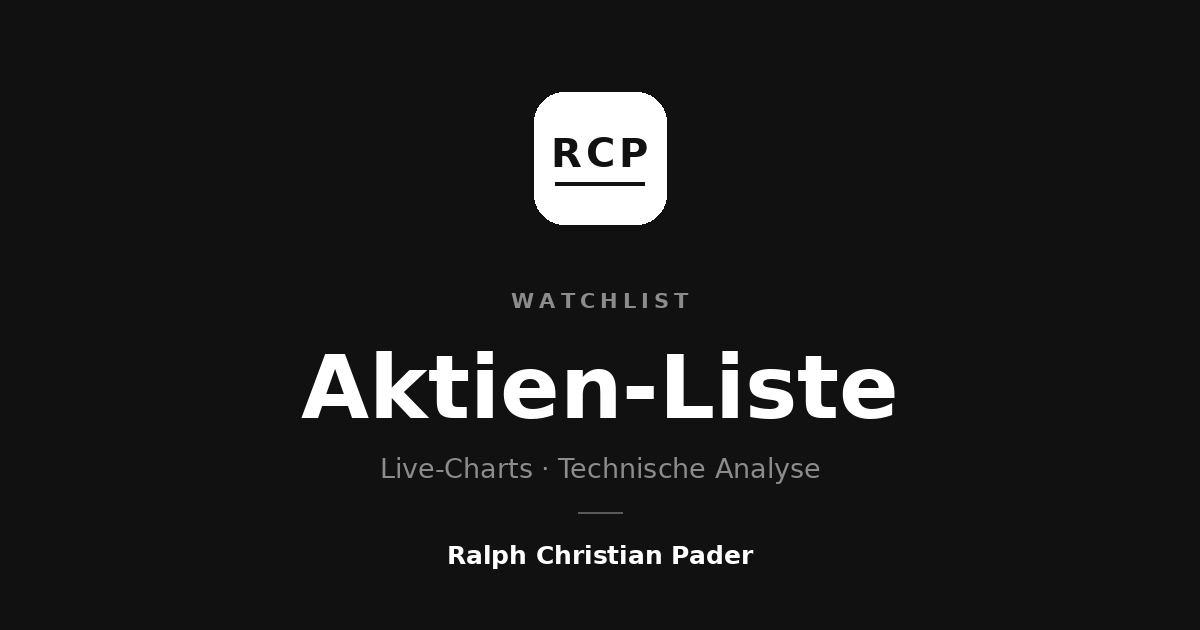
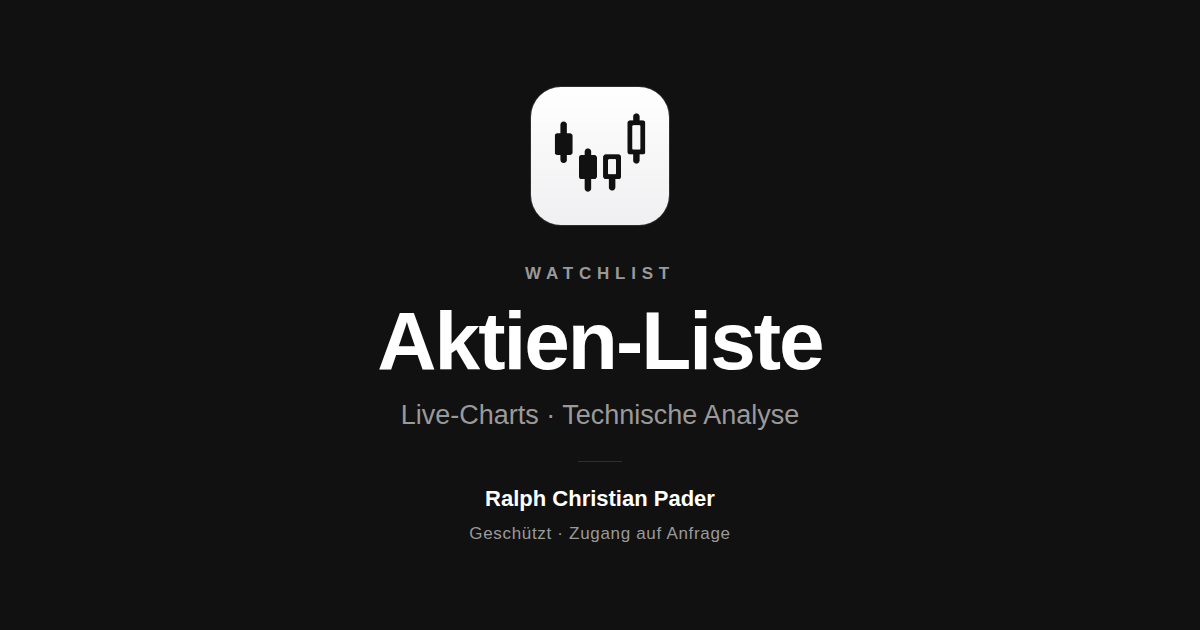
Vorschau beim Verschicken: Angaben auf die Anmeldeseite
Wer die Adresse in WhatsApp schickt, bekam die nackte Adresse — kein Bild,
kein Titel. Der Grund: die Open-Graph-Angaben standen nur auf index.html,
und die bekommt der Vorschau-Roboter nie zu sehen. Er hat keine Anmeldung,
das Tor leitet ihn auf /anmelden.html weiter, und dort stand nichts.

Jetzt stehen sie dort. Das Bild selbst war ohne Anmeldung schon erreichbar,
das musste nicht angefasst werden.

Dazu ein neues Vorschaubild: das alte trug noch das RCP-Quadrat. Jetzt das
Kerzensymbol, dazu die Zeile "Geschuetzt · Zugang auf Anfrage" — wer den
Link bekommt, soll wissen, woran er ist. Hell und dunkel, beide 1200x630.

Die Nummer am Bild ist hoch, sonst zeigen die Dienste ihre alte Kopie; sie
merken sich das Bild je Adresse, oft wochenlang. Damit auch alles beieinander
bleibt, tragen die Symbole dieselbe Nummer und der Vorrat heisst v34.

sw-test geht den Weg des Roboters jetzt nach: Wurzel ohne Keks anfragen, der
Weiterleitung folgen, Titel, Text und Bild aus dem Kopf lesen, das Bild ohne
Anmeldung holen, pruefen dass es ein PNG unter 600 KB ist.

Claude-Session: https://claude.ai/code/session_01CGhCPVgBHdk8hQCUyJSgRr

Changed region(s): [[0.2467, 0.4222, 0.7708, 0.6937], [0.3083, 0.7238, 0.6783, 0.9048], [0.4317, 0.1206, 0.555, 0.3016]]

diff --git a/index.html b/index.html
@@ -5,8 +5,8 @@
 <meta name="color-scheme" content="light">
 <link rel="manifest" href="/manifest.webmanifest" crossorigin="use-credentials">
 <meta name="theme-color" content="#fafafa">
-<link rel="icon" type="image/png" sizes="192x192" href="/icon-192.png?v=33">
-<link rel="apple-touch-icon" href="/icon-180.png?v=33">
+<link rel="icon" type="image/png" sizes="192x192" href="/icon-192.png?v=34">
+<link rel="apple-touch-icon" href="/icon-180.png?v=34">
 <meta name="apple-mobile-web-app-capable" content="yes">
 <meta name="mobile-web-app-capable" content="yes">
 <meta name="apple-mobile-web-app-title" content="Aktien-Liste">
@@ -19,14 +19,14 @@
 <meta property="og:url" content="https://rcp-aktien.netlify.app/">
 <meta property="og:title" content="Aktien-Liste · Ralph Christian Pader">
 <meta property="og:description" content="Live-Charts · Technische Analyse · Watchlist">
-<meta property="og:image" content="https://rcp-aktien.netlify.app/og-preview-black.png">
+<meta property="og:image" content="https://rcp-aktien.netlify.app/og-preview-black.png?v=34">
 <meta property="og:image:width" content="1200">
 <meta property="og:image:height" content="630">
 <meta property="og:locale" content="de_DE">
 <meta name="twitter:card" content="summary_large_image">
 <meta name="twitter:title" content="Aktien-Liste · Ralph Christian Pader">
 <meta name="twitter:description" content="Live-Charts · Technische Analyse · Watchlist">
-<meta name="twitter:image" content="https://rcp-aktien.netlify.app/og-preview-black.png">
+<meta name="twitter:image" content="https://rcp-aktien.netlify.app/og-preview-black.png?v=34">
 
 <style>
   :root {
@@ -1905,7 +1905,7 @@
             <rect x="60" y="16" width="34" height="34" rx="8" fill="currentColor" opacity=".13"/>
             <rect x="106" y="16" width="34" height="34" rx="8" fill="currentColor" opacity=".13"/>
             <defs><clipPath id="ikonEcke"><rect x="152" y="16" width="34" height="34" rx="8"/></clipPath></defs>
-            <image href="/icon-192.png?v=33" x="152" y="16" width="34" height="34" clip-path="url(#ikonEcke)"/>
+            <image href="/icon-192.png?v=34" x="152" y="16" width="34" height="34" clip-path="url(#ikonEcke)"/>
             <rect x="152" y="16" width="34" height="34" rx="8" fill="none" stroke="currentColor" stroke-opacity=".2"/>
             <rect class="ring" x="147" y="11" width="44" height="44" rx="11" stroke="currentColor" stroke-width="1.4"/>
             <rect x="198" y="16" width="34" height="34" rx="8" fill="currentColor" opacity=".13"/>
@@ -1944,7 +1944,7 @@
 </div>
 
 <div class="install-bar" id="installBar" hidden>
-  <div class="install-mark" aria-hidden="true"><img src="/icon-192.png?v=33" alt=""></div>
+  <div class="install-mark" aria-hidden="true"><img src="/icon-192.png?v=34" alt=""></div>
   <div class="install-copy">
     <b>Aktien-Liste als App</b>
     <span>Ohne Adressleiste, mit Icon auf dem Home-Bildschirm</span>

diff --git a/anmelden.html b/anmelden.html
@@ -6,9 +6,33 @@
 <meta name="theme-color" content="#fafafa">
 <meta name="viewport" content="width=device-width, initial-scale=1, maximum-scale=1, user-scalable=no">
 <meta name="robots" content="noindex, nofollow">
-<link rel="icon" type="image/png" sizes="192x192" href="/icon-192.png?v=33">
-<link rel="apple-touch-icon" href="/icon-180.png?v=33">
+<link rel="icon" type="image/png" sizes="192x192" href="/icon-192.png?v=34">
+<link rel="apple-touch-icon" href="/icon-180.png?v=34">
 <title>Anmelden · Aktien-Liste</title>
+
+<!-- Die Vorschau beim Verschicken entsteht hier, nicht auf der Liste.
+     Wer die Adresse in WhatsApp oder iMessage schickt, schickt einen Roboter
+     los, und der hat keine Anmeldung: das Tor leitet ihn auf diese Seite
+     weiter. Stehen die Angaben nur auf index.html, sieht er sie nie — dann
+     kommt die nackte Adresse ohne Bild an. Das Bild selbst ist ohne
+     Anmeldung erreichbar (OFFEN_ANFANG in tor.js).
+     Die Nummer am Bild muss hoch, sonst zeigen die Dienste ihre alte Kopie. -->
+<meta name="description" content="Aktien-Liste · Live-Charts und technische Analyse. Geschützt — Zugang auf Anfrage.">
+<meta property="og:type" content="website">
+<meta property="og:site_name" content="Aktien-Liste">
+<meta property="og:url" content="https://rcp-aktien.netlify.app/">
+<meta property="og:title" content="Aktien-Liste · Ralph Christian Pader">
+<meta property="og:description" content="Live-Charts · Technische Analyse · Geschützt, Zugang auf Anfrage">
+<meta property="og:image" content="https://rcp-aktien.netlify.app/og-preview-black.png?v=34">
+<meta property="og:image:type" content="image/png">
+<meta property="og:image:width" content="1200">
+<meta property="og:image:height" content="630">
+<meta property="og:image:alt" content="Aktien-Liste — Watchlist mit Live-Charts">
+<meta property="og:locale" content="de_DE">
+<meta name="twitter:card" content="summary_large_image">
+<meta name="twitter:title" content="Aktien-Liste · Ralph Christian Pader">
+<meta name="twitter:description" content="Live-Charts · Technische Analyse · Geschützt, Zugang auf Anfrage">
+<meta name="twitter:image" content="https://rcp-aktien.netlify.app/og-preview-black.png?v=34">
 <style>
   :root {
     color-scheme: light;

diff --git a/positionen.html b/positionen.html
@@ -6,8 +6,8 @@
 <meta name="theme-color" content="#fafafa">
 <meta name="viewport" content="width=device-width, initial-scale=1">
 <meta name="robots" content="noindex, nofollow">
-<link rel="icon" type="image/png" sizes="192x192" href="/icon-192.png?v=33">
-<link rel="apple-touch-icon" href="/icon-180.png?v=33">
+<link rel="icon" type="image/png" sizes="192x192" href="/icon-192.png?v=34">
+<link rel="apple-touch-icon" href="/icon-180.png?v=34">
 <title>Positionen · Aktien-Liste</title>
 <style>
   :root {

diff --git a/verwaltung.html b/verwaltung.html
@@ -6,8 +6,8 @@
 <meta name="theme-color" content="#fafafa">
 <meta name="viewport" content="width=device-width, initial-scale=1">
 <meta name="robots" content="noindex, nofollow">
-<link rel="icon" type="image/png" sizes="192x192" href="/icon-192.png?v=33">
-<link rel="apple-touch-icon" href="/icon-180.png?v=33">
+<link rel="icon" type="image/png" sizes="192x192" href="/icon-192.png?v=34">
+<link rel="apple-touch-icon" href="/icon-180.png?v=34">
 <title>Verwaltung · Aktien-Liste</title>
 <style>
   :root {

diff --git a/sw.js b/sw.js
@@ -12,9 +12,9 @@ const CACHE = "aktien-liste-v34";
    erst abgelegt, wenn eine echte Antwort durchkommt. */
 const PRECACHE = [
   "/manifest.webmanifest",
-  "/icon-180.png?v=33",
-  "/icon-192.png?v=33",
-  "/icon-512.png?v=33"
+  "/icon-180.png?v=34",
+  "/icon-192.png?v=34",
+  "/icon-512.png?v=34"
 ];
 
 const STATIC = /\.(?:png|jpg|jpeg|svg|webp|ico|pdf|webmanifest)$/i;

diff --git a/README.md b/README.md
@@ -205,6 +205,24 @@ Jede Nachricht bekommt einen eigenen Tag, überschreibt die vorige also nicht.
 Antippen öffnet die Liste. Geräte, die der Push-Dienst nicht mehr kennt,
 werden beim Senden aussortiert und in der Rückmeldung gezählt.
 
+## Die Vorschau beim Verschicken
+
+Wer die Adresse in WhatsApp oder iMessage schickt, schickt einen Roboter los,
+der die Seite holt und daraus die Karte baut. Der Roboter hat keine
+Anmeldung — das Tor leitet ihn auf `/anmelden.html` weiter.
+
+Deshalb stehen die Open-Graph-Angaben **dort**, nicht nur auf `index.html`.
+Vorher standen sie nur auf der Liste, die der Roboter nie zu sehen bekam; im
+Chat kam die nackte Adresse an, ohne Bild und ohne Titel. Das Bild selbst ist
+ohne Anmeldung erreichbar (`OFFEN_ANFANG` in `tor.js`).
+
+Bei jedem neuen Vorschaubild muss die Nummer im `?v=` hoch, sonst zeigen die
+Dienste ihre alte Kopie — sie merken sich das Bild je Adresse, oft wochenlang.
+
+`sw-test` geht den Weg des Roboters nach: Wurzel ohne Keks anfragen, der
+Weiterleitung folgen, Titel/Text/Bild aus dem Kopf lesen, das Bild ohne
+Anmeldung holen und prüfen, dass es ein PNG unter 600 KB ist.
+
 ## Der Rundgang
 
 Beim allerersten Start legt sich eine Führung über die Liste: ein Ausschnitt
